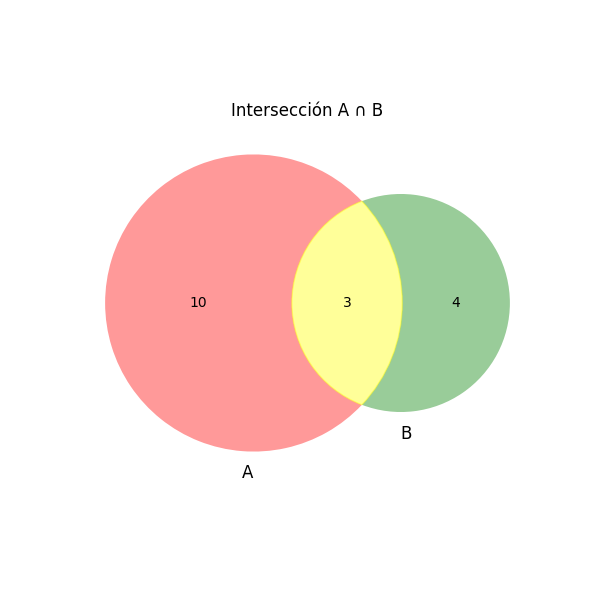
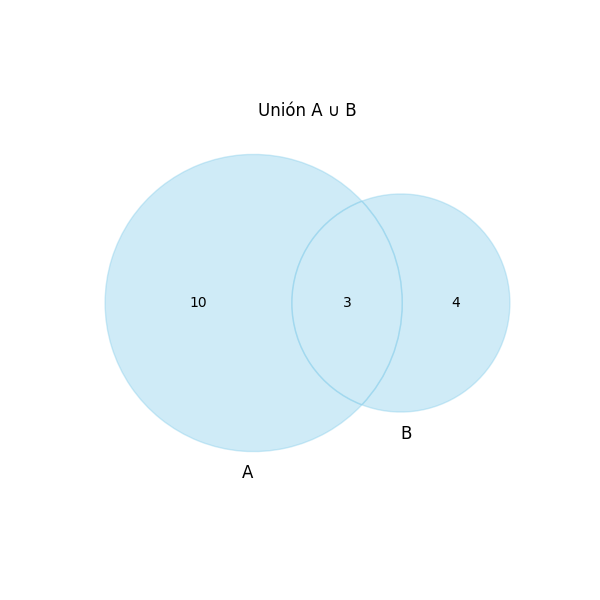
Final

Changed region(s): [[0.15, 0.24, 0.87, 0.78], [0.39, 0.15, 0.63, 0.21]]

diff --git a/templates/caso2_f2.html b/templates/caso2_f2.html
@@ -16,17 +16,42 @@
         </div>
         <div class="container mt-4">
             <h3>Función f(x,y) = x² + y²</h3>
+            <div class="card shadow-sm">
+                <div class="card-body">
+                    <form method="POST" class="mt-3">
+                        <input type="number" step="any" name="x" placeholder="Ingrese x" class="form-control w-25">
+                        <input type="number" step="any" name="y" placeholder="Ingrese y" class="form-control w-25 mt-2">
+                        <button class="btn btn-info mt-3">Calcular</button>
+                    </form>
 
-            <form method="POST" class="mt-3">
-                <input type="number" step="any" name="x" placeholder="Ingrese x" class="form-control w-25">
-                <input type="number" step="any" name="y" placeholder="Ingrese y" class="form-control w-25 mt-2">
-                <button class="btn btn-info mt-3">Calcular</button>
-            </form>
+                    {% if resultado %}
+                        <hr>
+                        <h5>Resultado:</h5>
+                        <p class="fs-5">{{ resultado }}</p>
+                        {% if pasos %}
+                            <h5>Pasos:</h5>
+                            <ul class="list-unstyled">
+                                {% for p in pasos %}
+                                    <li>{{ p }}</li>
+                                {% endfor %}
+                            </ul>
+                        {% endif %}
+                    {% endif %}
 
-            {% if resultado %}
-            <div class="alert alert-info mt-3">{{ resultado }}</div>
-            {% endif %}
-
+                </div>
+            </div>
         </div>
+        {% with messages = get_flashed_messages(with_categories=true) %}
+            {% if messages %}
+                <div class="container mt-3">
+                    {% for category, message in messages %}
+                        <div class="alert alert-{{ category }} alert-dismissible fade show">
+                            {{ message }}
+                            <button type="button" class="btn-close" data-bs-dismiss="alert"></button>
+                        </div>
+                    {% endfor %}
+                </div>
+            {% endif %}
+        {% endwith %}
     </body>
 </html>

diff --git a/templates/caso2_f1.html b/templates/caso2_f1.html
@@ -16,16 +16,41 @@
         </div>
         <div class="container mt-4">
             <h3>Función f(x) = x² + 3</h3>
+            <div class="card shadow-sm">
+                <div class="card-body">
+                    <form method="POST" class="mt-3">
+                        <input type="number" step="any" name="x" placeholder="Ingrese x" class="form-control w-25">
+                        <button class="btn btn-primary mt-3">Calcular</button>
+                    </form>
 
-            <form method="POST" class="mt-3">
-                <input type="number" step="any" name="x" placeholder="Ingrese x" class="form-control w-25">
-                <button class="btn btn-primary mt-3">Calcular</button>
-            </form>
+                    {% if resultado %}
+                        <hr>
+                        <h5>Resultado:</h5>
+                        <p class="fs-5">{{ resultado }}</p>
+                        {% if pasos %}
+                            <h5>Pasos:</h5>
+                            <ul class="list-unstyled">
+                                {% for p in pasos %}
+                                    <li>{{ p }}</li>
+                                {% endfor %}
+                            </ul>
+                        {% endif %}
+                    {% endif %}
 
-            {% if resultado %}
-            <div class="alert alert-info mt-3">{{ resultado }}</div>
-            {% endif %}
-
+                </div>
+            </div>
         </div>
+        {% with messages = get_flashed_messages(with_categories=true) %}
+            {% if messages %}
+                <div class="container mt-3">
+                    {% for category, message in messages %}
+                        <div class="alert alert-{{ category }} alert-dismissible fade show">
+                            {{ message }}
+                            <button type="button" class="btn-close" data-bs-dismiss="alert"></button>
+                        </div>
+                    {% endfor %}
+                </div>
+            {% endif %}
+        {% endwith %}
     </body>
 </html>

diff --git a/templates/caso2_comp.html b/templates/caso2_comp.html
@@ -31,26 +31,33 @@
                     </form>
 
                     {% if resultado %}
-                    <div class="alert alert-info mt-4">
-
-                        <h5>Resultado paso a paso:</h5>
-
-                        <p><strong>1) g(x) = x²</strong><br>
-                        g({{ x }}) = {{ g }}</p>
-
-                        <p><strong>2) f(g(x)) = 2·g(x) + 1</strong><br>
-                        f({{ g }}) = {{ f }}</p>
-
-                        <p class="mt-3">
-                            <strong>Resultado final:</strong><br>
-                            f(g({{ x }})) = <strong>{{ resultado }}</strong>
-                        </p>
-
-                    </div>
+                        <hr>
+                        <h5>Resultado:</h5>
+                        <p class="fs-5">{{ resultado }}</p>
+                        {% if pasos %}
+                            <h5>Pasos:</h5>
+                            <ul class="list-unstyled">
+                                {% for p in pasos %}
+                                    <li>{{ p }}</li>
+                                {% endfor %}
+                            </ul>
+                        {% endif %}
                     {% endif %}
 
                 </div>
             </div>
         </div>
+        {% with messages = get_flashed_messages(with_categories=true) %}
+            {% if messages %}
+                <div class="container mt-3">
+                    {% for category, message in messages %}
+                        <div class="alert alert-{{ category }} alert-dismissible fade show">
+                            {{ message }}
+                            <button type="button" class="btn-close" data-bs-dismiss="alert"></button>
+                        </div>
+                    {% endfor %}
+                </div>
+            {% endif %}
+        {% endwith %}
     </body>
 </html>

diff --git a/app.py b/app.py
@@ -1,13 +1,18 @@
 import matplotlib
-matplotlib.use('Agg')
-
-from flask import Flask, render_template, request
+from flask import Flask, render_template, request, redirect, flash
 from matplotlib import pyplot as plt
 from matplotlib_venn import venn2
 import numpy as np
 import os
+from flask import flash
 
+matplotlib.use('Agg')
 app = Flask(__name__)
+app.secret_key = "JGF73hs8_2hshsA82hs72HahH27as!92"
+
+# Formatear numeros 0.0 = 0
+def fnum(n):
+    return int(n) if float(n).is_integer() else n
 
 # ================================================
 #   CASO 1
@@ -99,57 +104,109 @@ def caso1():
 #   CASO 2
 # ================================================
 
-@app.route("/caso2/f1")
-def caso2_menu():
-    return render_template("caso2_f1.html")
-
+# Función de una sola variable
 @app.route("/caso2/f1", methods=["GET", "POST"])
 def caso2_f1():
     resultado = None
+    pasos = []
+    
     f1 = lambda x: x**2 + 3
-    
-    if request.method == "POST":
-        x = float(request.form["x"])
-        resultado = f"f(x) = {f1(x)}"
-    
-    return render_template("caso2_f1.html", resultado=resultado)
 
+    if request.method == "POST":
+
+        # Validación de campos vacios
+        if request.form["x"].strip() == "":
+            flash("⚠ Por favor inserte valores para X", "danger")
+            return redirect("/caso2/f1")
+
+        x = float(request.form["x"])
+
+        x_f = fnum(x)
+        term1 = fnum(x**2)
+        term2 = 3
+        total = fnum(f1(x))
+
+        pasos = [
+            f"f({x_f}) = ({x_f})² + 3",
+            f"{x_f}² = {term1}",
+            f"{term1} + 3 = {total}"
+        ]
+
+        resultado = f"f({x_f}) = {total}"
+
+    return render_template("caso2_f1.html", resultado=resultado, pasos=pasos)
+
+
+# Función de dos variables
 @app.route("/caso2/f2", methods=["GET", "POST"])
 def caso2_f2():
     resultado = None
+    pasos = []
+
     f2 = lambda x, y: x**2 + y**2
-    
+
     if request.method == "POST":
+
+        # Validación de campos vacios
+        if request.form["x"].strip() == "" or request.form["y"].strip() == "":
+            flash("⚠ Por favor inserte valores para X Y", "danger")
+            return redirect("/caso2/f2")
+
         x = float(request.form["x"])
         y = float(request.form["y"])
-        resultado = f"f(x,y) = {f2(x, y)}"
-    
-    return render_template("caso2_f2.html", resultado=resultado)
 
+        x_f, y_f = fnum(x), fnum(y)
+        term1 = fnum(x**2)
+        term2 = fnum(y**2)
+        total = fnum(f2(x,y))
+
+        pasos = [
+            f"f({x_f}, {y_f}) = ({x_f})² + ({y_f})²",
+            f"{x_f}² = {term1}",
+            f"{y_f}² = {term2}",
+            f"{term1} + {term2} = {total}"
+        ]
+
+        resultado = f"f({x_f}, {y_f}) = {total}"
+
+    return render_template("caso2_f2.html", resultado=resultado, pasos=pasos)
+
+
+# Función compuesta
 @app.route("/caso2/compuesta", methods=["GET", "POST"])
 def caso2_comp():
     resultado = None
-    x_val = None
-    g_val = None
-    f_val = None
+    pasos = []
 
-    f = lambda x: 2*x + 1       # f(x) = 2x + 1
-    g = lambda x: x**2          # g(x) = x²
+    g = lambda x: x**2
+    f = lambda u: 2*u + 1
 
     if request.method == "POST":
-        x_val = float(request.form["x"])
-        g_val = g(x_val)
-        f_val = f(g_val)
-        resultado = f_val
 
-    return render_template(
-        "caso2_comp.html",
-        resultado=resultado,
-        x=x_val,
-        g=g_val,
-        f=f_val
-    )
+        # Validación de campos vacios
+        if request.form["x"].strip() == "":
+            flash("⚠ Por favor inserte valores para X.", "danger")
+            return redirect("/caso2/compuesta")
 
+        x = float(request.form["x"])
+
+        x_f = fnum(x)
+        g_val = fnum(g(x))
+        f_val = fnum(f(g_val))
+
+        pasos = [
+            f"f(g(x)) = 2(x²) + 1 ===> f(g({x_f})) = 2(({x_f})²) +1",
+            f"• g({x_f}) = ({x_f})² = {g_val}",
+            f"• f({g_val}) = 2({g_val}) + 1",
+            f"2({g_val}) + 1 = {f_val}"
+        ]
+
+        resultado = f"f(g({x_f})) = {f_val}"
+
+    return render_template("caso2_comp.html", resultado=resultado, pasos=pasos)
+
+
+# Gráfica de funciones
 @app.route("/caso2/grafica", methods=["GET", "POST"])
 def caso2_graf():
     grafica = None
@@ -167,7 +224,7 @@ def caso2_graf():
         grafica = "funcion.png"
 
     return render_template("caso2_graf.html", grafica=grafica)
-    
+
 
 if __name__ == "__main__":
     app.run(debug=True)
